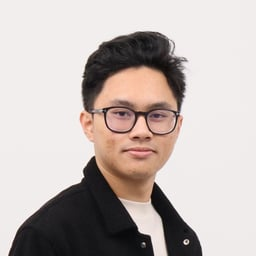
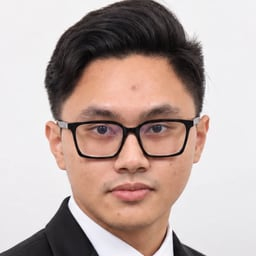
[CLAUDIA] feat(profile): ganti foto profil dengan foto jas baru, hero pakai foto tangan bersilang

diff --git a/Frontend/src/app/[locale]/page.tsx b/Frontend/src/app/[locale]/page.tsx
@@ -22,7 +22,7 @@ import { toSkillItems } from '@/features/skills/skill-items'
 import { getPublicSkills } from '@/features/skills/public'
 import { Link } from '@/i18n/navigation'
 import { siteUrl } from '@/lib/env'
-import { DEFAULT_PHOTO_ALT, DEFAULT_PROFILE_PHOTO } from '@/lib/default-photo'
+import { DEFAULT_PHOTO_ALT, DEFAULT_PROFILE_PHOTO, HERO_PORTRAIT } from '@/lib/default-photo'
 import { JsonLd } from '@/lib/json-ld'
 import { routing } from '@/i18n/routing'
 import { formatMonth, loc } from '@/lib/localized'
@@ -142,23 +142,12 @@ export default async function HomePage({ params }: PageProps<'/[locale]'>) {
       }
     : null
 
-  // Foto potret hero: foto dari admin bila ada, selain itu foto bawaan pemilik.
-  const portraitSizes = '(min-width: 1024px) 460px, 280px'
-  const portrait = profile?.photo ? (
+  // Potret hero: selalu foto khusus beranda (bukan foto profil dari admin).
+  const portrait = (
     <Image
-      src={profile.photo.url}
-      alt={loc(profile.photo, 'alt', locale)}
-      width={profile.photo.width ?? 480}
-      height={profile.photo.height ?? 600}
-      sizes={portraitSizes}
-      loading="eager"
-      className="hero-portrait-img"
-    />
-  ) : (
-    <Image
-      src={DEFAULT_PROFILE_PHOTO}
+      src={HERO_PORTRAIT}
       alt={DEFAULT_PHOTO_ALT[locale]}
-      sizes={portraitSizes}
+      sizes="(min-width: 1024px) 460px, (min-width: 48rem) 336px, 240px"
       loading="eager"
       placeholder="blur"
       className="hero-portrait-img"

diff --git a/Frontend/src/lib/default-photo.ts b/Frontend/src/lib/default-photo.ts
@@ -1,11 +1,15 @@
+import hero from '@/assets/hero-portrait.webp'
 import avatar from '@/assets/profile-avatar.jpg'
 import photo from '@/assets/profile-photo.jpg'
 
-// Foto profil bawaan (dari pemilik, 2026-10-01). Dipakai selama belum ada foto yang diunggah
+// Foto profil bawaan (dari pemilik, diganti 2026-10-19). Dipakai selama belum ada foto yang diunggah
 // lewat admin (Cloudinary); foto dari admin selalu didahulukan. Metadata kamera sudah dibuang.
 export const DEFAULT_PROFILE_PHOTO = photo
 // potongan wajah untuk lingkaran kecil (topbar, login)
 export const DEFAULT_PROFILE_AVATAR = avatar
+// potret hero beranda (permintaan pemilik 2026-10-19): selalu foto ini, tangan bersilang, latar
+// transparan, 4:5 dengan subjek rata bawah. Tidak diganti oleh foto dari admin.
+export const HERO_PORTRAIT = hero
 
 export const DEFAULT_PHOTO_ALT = {
   id: 'Foto Muhammad Mirza Wirya',

diff --git a/Documentation/DESIGN.md b/Documentation/DESIGN.md
@@ -1099,5 +1099,13 @@ Permintaan pemilik: hero seperti ibnuhakim.id, dengan komponen Framer HoverMaskR
   - foto tetap `<img>` biasa, canvas hanya dekorasi (`aria-hidden`);
   - petunjuk "Arahkan kursor ke foto" hanya tampil di perangkat dengan kursor.
 - **Dihapus:** latar Horizon di bawah hero (`horizon-backdrop.tsx`, `horizon-canvas.tsx`, gaya `.horizon-*`), pelat status lama, tombol GitHub di hero (pindah ke baris sosial), dan gaya `.home-portrait`. Headline profil tidak tampil lagi di hero, tetapi tetap dipakai metadata dan JSON-LD.
-- **Menunggu pemilik:** foto jas dengan tangan bersilang dan lapisan kedua (manekin) dalam pose dan bingkai yang sama, idealnya PNG latar transparan agar menyatu di tema gelap. Sampai itu ada, di tema gelap potret tampil di atas bidang terang dengan bawah yang memudar.
+- **Menunggu pemilik:** ~~foto jas dengan tangan bersilang~~ (terpasang 2026-10-19, bagian 84) dan lapisan kedua (manekin) dalam pose dan bingkai yang sama, idealnya PNG latar transparan agar menyatu di tema gelap. Sampai itu ada, di tema gelap potret tampil di atas bidang terang dengan bawah yang memudar.
 
+
+## 84. Foto baru pemilik di seluruh situs (2026-10-19)
+
+Permintaan pemilik: semua foto memakai foto jas baru, khusus pembuka beranda memakai foto jas dengan tangan bersilang.
+
+- **Foto profil bawaan** (`assets/profile-photo.jpg` 800×800 dan potongan wajah `assets/profile-avatar.jpg` 256×256) diganti dengan foto jas baru. Foto ini dipakai di Tentang, kartu ID Kontak, avatar topbar, footer, login, dan panel admin. Foto yang diunggah lewat Admin tetap didahulukan, jadi bila di produksi sudah ada foto profil unggahan, foto itu yang tampil sampai diganti atau dihapus di Admin.
+- **Potret hero** (`assets/hero-portrait.webp`, `HERO_PORTRAIT` di `lib/default-photo.ts`) selalu memakai foto tangan bersilang, tidak diganti oleh foto dari Admin. Foto asli berlatar transparan dipotong 4:5 (1000×1250) dengan subjek rata bawah dan siku tetap utuh, sehingga menyatu dengan bidang potret di tema terang dan gelap.
+- Lapisan kedua liquid mask masih versi cetak biru dari foto yang sama (bagian 83); latar transparan tetap transparan di lapisan itu.
